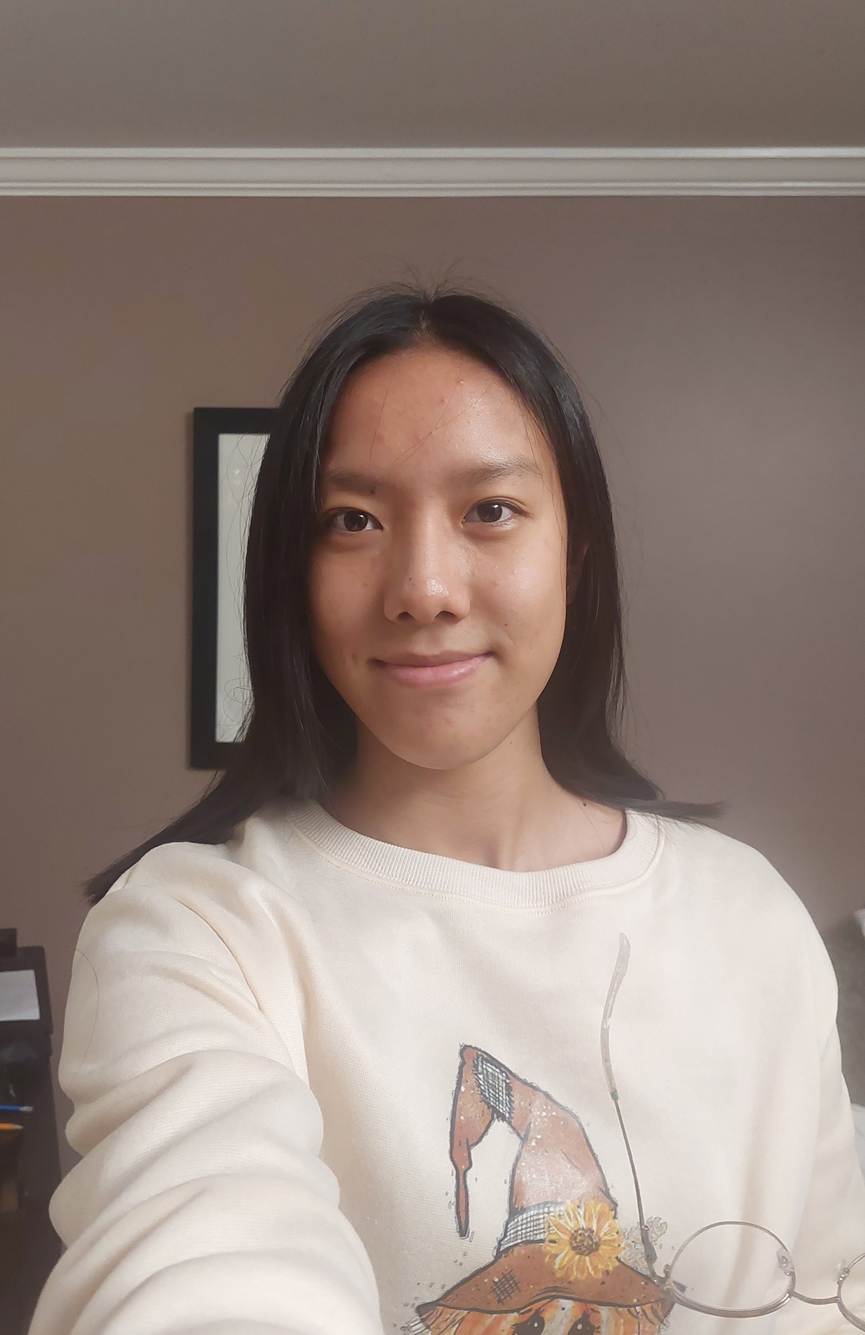
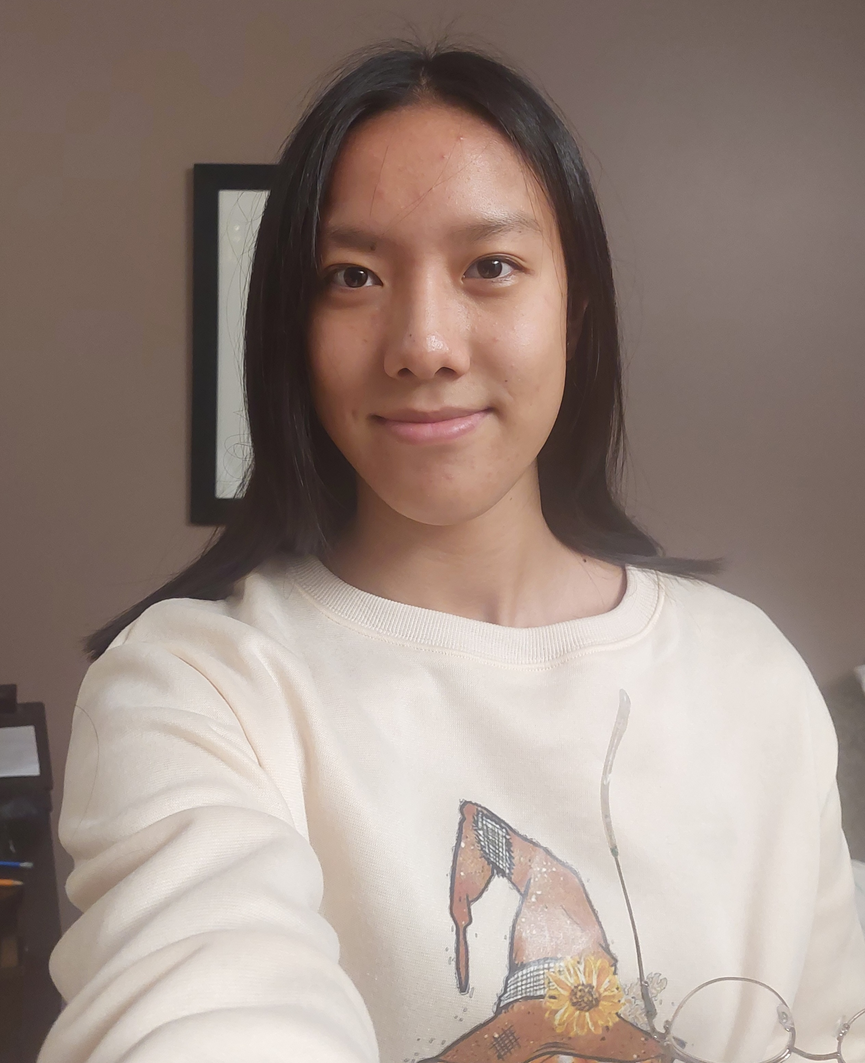
new photos

diff --git a/components/Blog-board/blogData.tsx b/components/Blog-board/blogData.tsx
@@ -35,7 +35,7 @@ const BlogData: Blog[] = [
   },
   {
     _id: 1,
-    mainImage: "/images/blog/board_profile_pictures/wuj_crop.jpg",
+    mainImage: "/images/blog/board_profile_pictures/wuj.jpg",
     title: "Jingjing Wu",
     role: "Director of Marketing",
     metadata:
@@ -43,7 +43,7 @@ const BlogData: Blog[] = [
   },
   {
     _id: 1,
-    mainImage: "/images/blog/board_profile_pictures/carterh.jpg",
+    mainImage: "/images/blog/board_profile_pictures/carterh.png",
     title: "Hannah Carter",
     role: "Marketing Team Member",
     metadata:
@@ -67,7 +67,7 @@ const BlogData: Blog[] = [
   },
   {
     _id: 1,
-    mainImage: "/images/blog/board_profile_pictures/chenga_crop.jpg",
+    mainImage: "/images/blog/board_profile_pictures/chenga.jpg",
     title: "April Cheng",
     role: "Director of Tutors",
     metadata:
@@ -75,7 +75,7 @@ const BlogData: Blog[] = [
   },
   {
     _id: 1,
-    mainImage: "/images/blog/board_profile_pictures/palomaf_crop.png",
+    mainImage: "/images/blog/board_profile_pictures/palomaf.png",
     title: "Francis Paloma",
     role: "Assistant Director of Tutors",
     metadata:
@@ -83,7 +83,7 @@ const BlogData: Blog[] = [
   },
   {
     _id: 1,
-    mainImage: "/images/blog/board_profile_pictures/fungc.jpg",
+    mainImage: "/images/blog/board_profile_pictures/fungc.png",
     title: "Charisse Fung",
     role: "Assistant Director of Tutors",
     metadata:
@@ -91,7 +91,7 @@ const BlogData: Blog[] = [
   },
   {
     _id: 1,
-    mainImage: "/images/blog/board_profile_pictures/guoa.jpg",
+    mainImage: "/images/blog/board_profile_pictures/guoa.png",
     title: "Andrew Guo",
     role: "Director of Communications",
     metadata:
@@ -99,7 +99,7 @@ const BlogData: Blog[] = [
   },
   {
     _id: 1,
-    mainImage: "/images/blog/board_profile_pictures/panm.jpg",
+    mainImage: "/images/blog/board_profile_pictures/panm.png",
     title: "Michelle Pan",
     role: "Director of Communications",
     metadata:
@@ -147,7 +147,7 @@ const BlogData: Blog[] = [
   },
   {
     _id: 1,
-    mainImage: "/images/blog/board_profile_pictures/rathiv_crop.jpg",
+    mainImage: "/images/blog/board_profile_pictures/rathiv.jpg",
     title: "Vihaan Rathi",
     role: "Director of Logistics",
     metadata:
